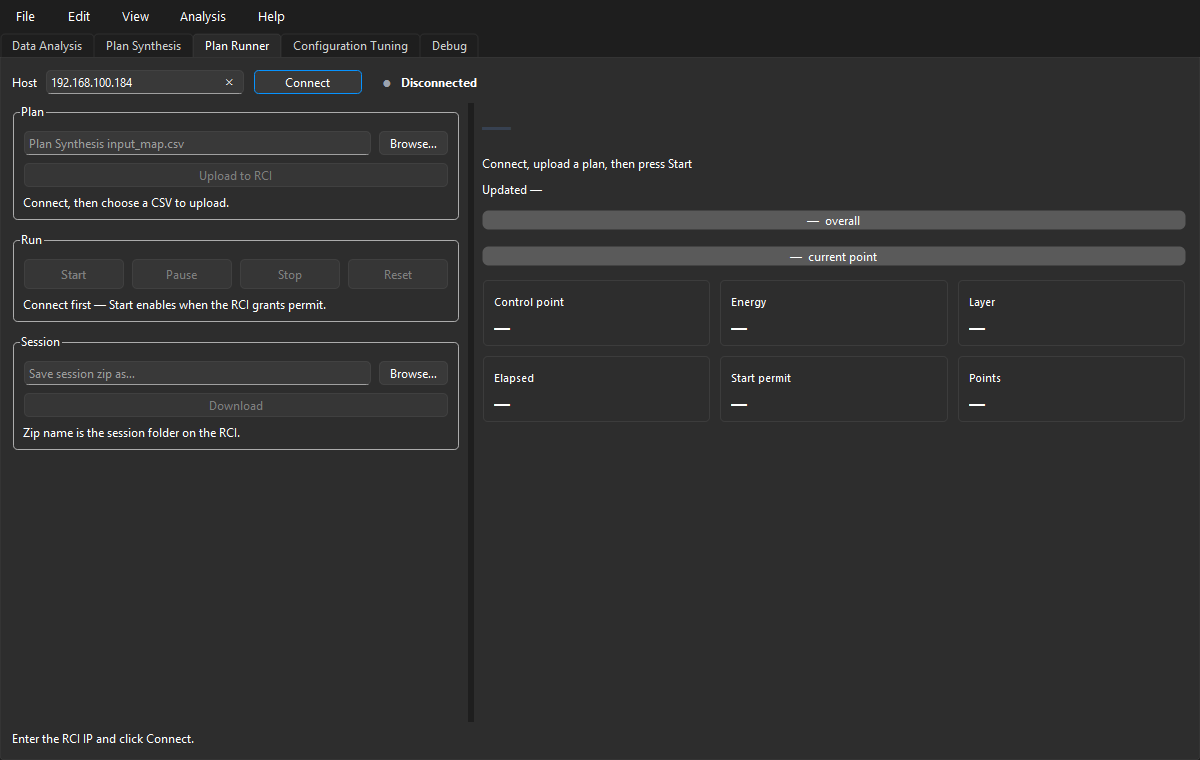
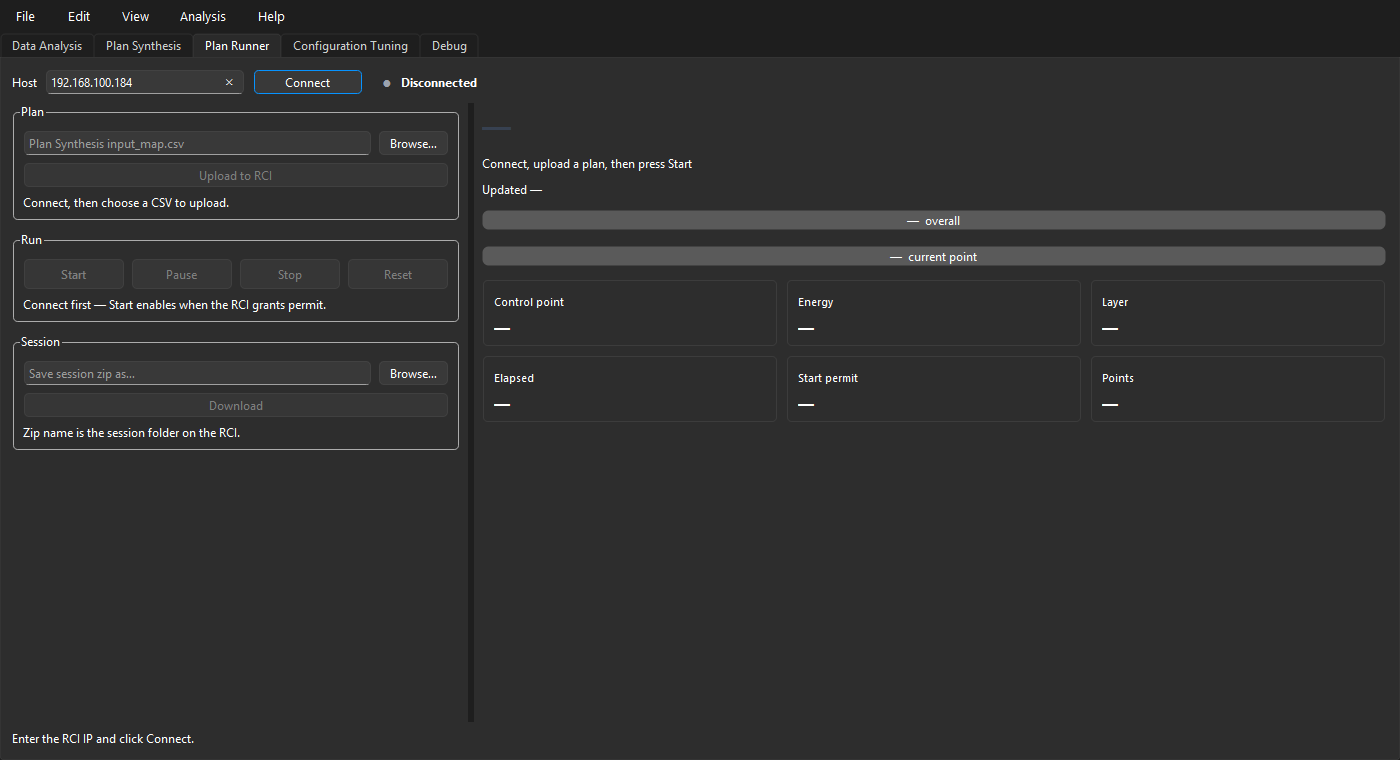
Widen the README launcher screenshots so the Data Analysis controls are not clipped. (#29)

diff --git a/scripts/capture_doc_screenshots.py b/scripts/capture_doc_screenshots.py
@@ -26,7 +26,7 @@ SESSION_G2 = "590658542"
 # Adjacent in the date-sorted table so both Use swatches show in the launcher shot.
 LAUNCHER_SESSIONS = ["656350661", "1943968267"]
 
-LAUNCHER_SIZE = (1200, 760)
+LAUNCHER_SIZE = (1400, 760)
 VIEW_SIZE = (1400, 860)
 PUBLIC_DATA_DIR = "test_data"
 PUBLIC_RCI_HOST = "192.168.100.184"
@@ -194,7 +194,7 @@ def _generate_zero_field_preview(panel) -> None:
 
 
 def _capture_launcher_screenshots(base_dir: str) -> None:
-    from PySide6.QtWidgets import QApplication
+    from PySide6.QtWidgets import QApplication, QSplitter
 
     from scan_kit.qt_launcher import (
         ScanKitMainWindow,
@@ -236,6 +236,16 @@ def _capture_launcher_screenshots(base_dir: str) -> None:
     assert tabs is not None
 
     _switch_tab(window, _MAIN_TAB_DATA_ANALYSIS)
+    data_page = None
+    for i in range(tabs.count()):
+        if tabs.tabText(i) == _MAIN_TAB_DATA_ANALYSIS:
+            data_page = tabs.widget(i)
+            break
+    if data_page is not None:
+        for splitter in data_page.findChildren(QSplitter):
+            splitter.setSizes([720, 680])
+            break
+    app.processEvents()
     _grab_widget(window, OUT_DIR / "launcher-data-analysis.png")
 
     _switch_tab(window, _MAIN_TAB_PLAN_SYNTHESIS)
